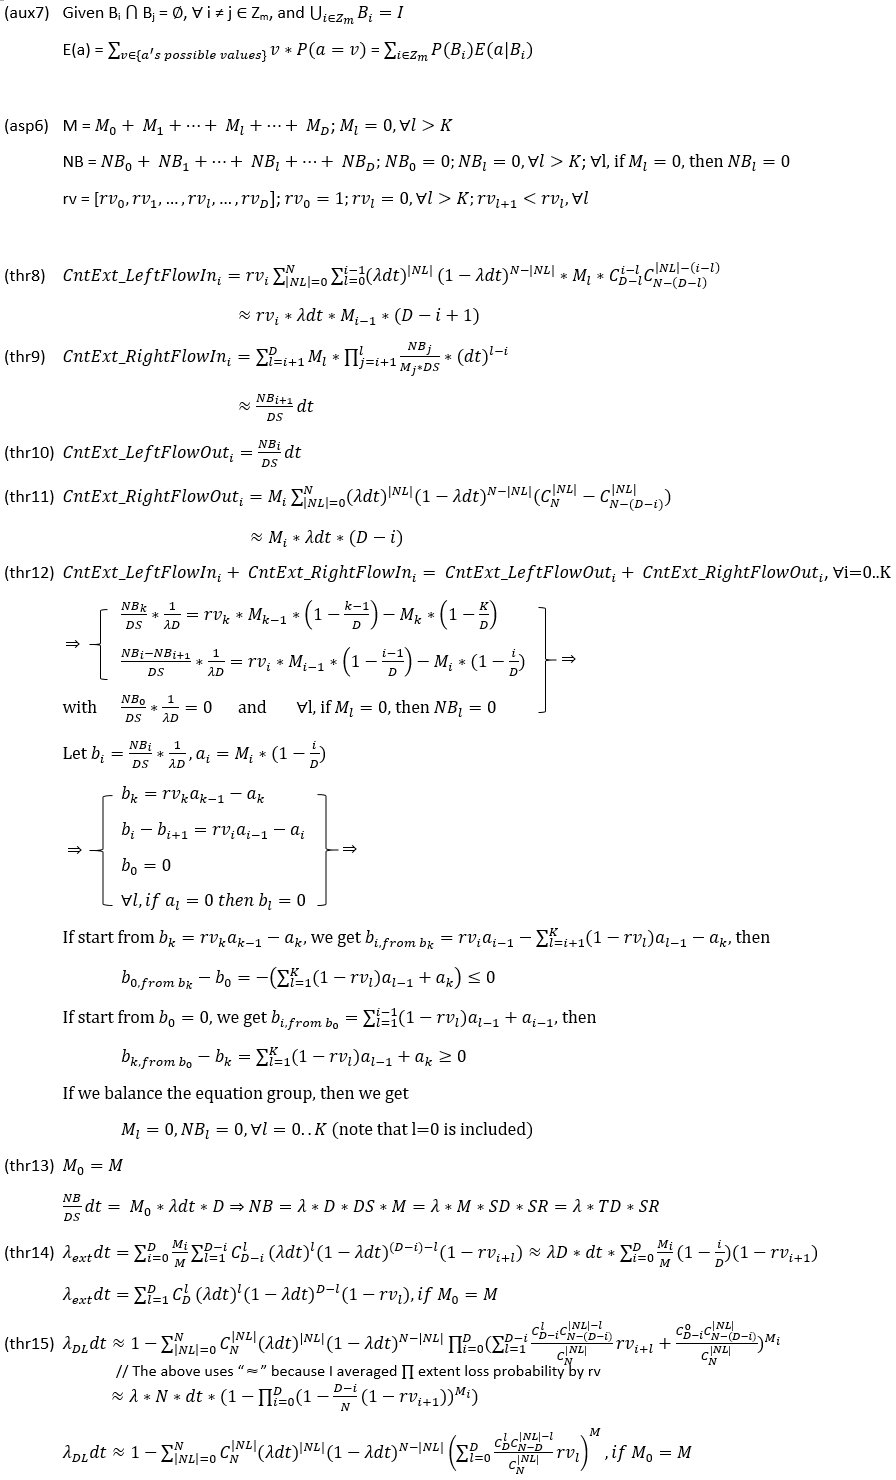
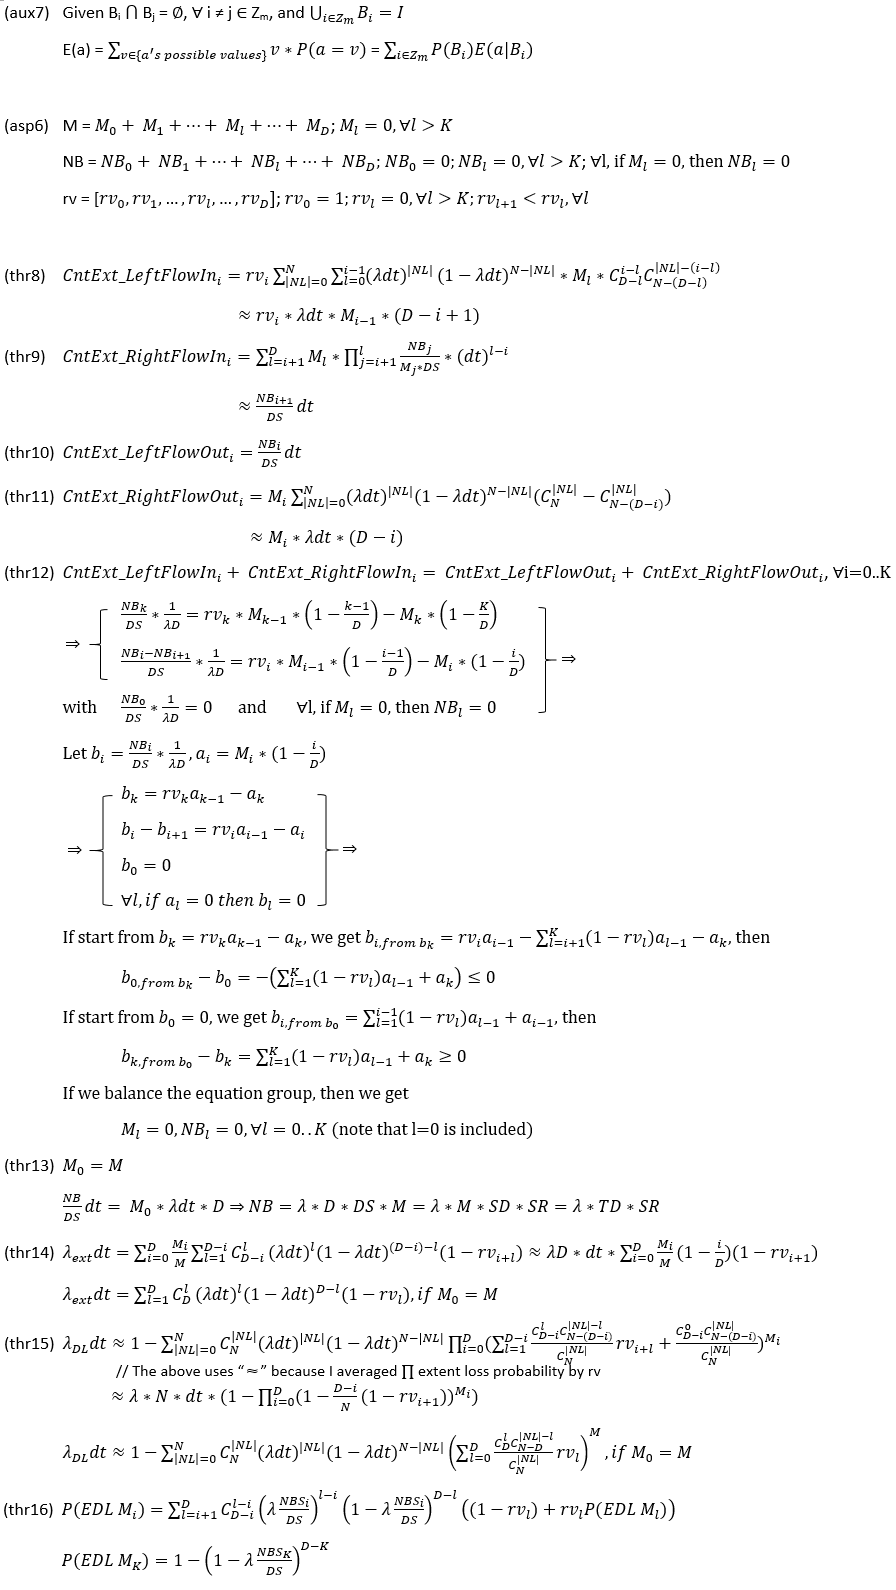
update article

diff --git a/_posts/2016-12-02-Storage-Reliability-Calculations.md b/_posts/2016-12-02-Storage-Reliability-Calculations.md
@@ -236,9 +236,23 @@ Conclusions
 
         Extent loss rate λ(ext): (thr14)
         Cluster data loss rate λ(DL): (thr15)
-
             λ(ext) and λ(DL) are the solo result of Mi states. They has not relation with NBi. While NBi is what maintains Mi states.
             When M0=M, λ(ext) and λ(DL) are the best of what they can get from NBi.
+
+        Practical markov for single extent loss probability: (thr16)
+            Notations
+                Let NBSi := the available network recovery bandwidth for this single extent, when it has lost i fragments
+                    The bandwidth is affacted by repair priority, TOR and node NIC bandwidth.
+                P(EDL Mi) := probability of lose this extent when it is at Mi
+                    P(EDL M0) is what we try to calculate
+            Note that this formula not math strict, because in a absorbing markov chain the extent loss probability should be eventually 1
+                https://www.dartmouth.edu/~chance/teaching_aids/books_articles/probability_book/Chapter11.pdf
+            But we are here to calculate the "practical" probability
+                This formula assumes we follow the repair lifecycle of the given extent
+                While the above λ(ext) assumes we take any extent from the cluster, which has M1-MK count is infinitely small
+            This formula is useful because
+                It takes network recovery bandwidth into consideration, very practical
+                It follows the entire repair lifecycle of the given extent
 
     Conclusions
 
@@ -252,9 +266,53 @@ Conclusions
         For operation ease, cluster data loss λ(DL) should be low. It is the direct result of λ and code schema.
             λ(ext) and λ(DL) have no direct relation ship with NB. But NB is necessary to pull extents from M1..MK != 0 states.
             If M1..MK != 0, the λ(ext)dt and λ(DL)dt raise by factor of 1/(λdt)
-
 ```
 
 Below are the formulas stated above
 
 ![Formula index](/images/reliability-limits-formula-index.png "Formula index")
+
+__Reliability framework__
+
+To summarize the technique framework to ensure storage reliability
+
+  * Data input: ensure the reliability when data is coming in
+      * End-to-end verification: ensure what user writes is what is stored
+      * Commit safe: when user is ack-ed, ensure the data is guaranteed persistent
+
+  * Data storing: ensure the reliability at where data is stored
+      * Good data should not be overwriten. In case a bug or at least we can recover data from history
+      * Data recovery
+          * Detect data loss as fast as you can
+              * On-the-fly, when user read data, from node loss, from disk failure, etc. Summarize whatever info you can leverage to detect data loss fast.
+              * Prediction, from unstable/unhealthy/untrustable nodes that are going to loss, from disks that frequently have problem. Prepare to move data out of danger zones.
+          * Repair action should be prioritized
+              * Repair the data at high risk first.
+              * Repair actions should be well-scheduled and well-managed.
+              * The overall reliability is determined by how fast you can repair.
+          * Watch out that your data is more vulnerable when server upgrading, because
+              * Some portion of data is unavailable
+              * The user traffic becomes larger because of reconstruction read
+              * The repair traffic also becomes larger
+          * Code schema (e.g. 3-replica, erasure-coding, LRC) is very important for data reliability.
+              * It is also important for balancing reliability with overhead of storage, bandwidth, latency, reconstruct, and metadata.
+              * Policied auto transition between different code schemas may be necessary.
+      * Silent data corruption: This is a real problem. Background check and repair can help; but too time/resource consuming for super large clusters.
+      * Some piece hardware from vendors can have problem. Some firmware can have problem, go wrong, or have bug. They can become slow, unstable, or whatever.
+      * Old clusters are highly risked: old devices are easy to fail, and in burst, which generates a lot of data loss. They may frequently become slow, unstable, jump online and offline.
+
+  * Data serving
+      * Data availability and data durability are different. Good data serving ensures data availability
+      * Nodes can be transiently unavailable. Detect transient and permanent before you head to expensive data repair.
+      * Node failure can usually be repaired quickly by a reboot. Node can jump online and offline. Be careful to schedule repair actions wisely.
+      * Customer impact is different, i.e. even data is lost, if we are in the lucky time window where customer is not reading/writing (this is of high probabilty), there can be no customer impact.
+
+  * Raw disk recovery: when everything is goine, we expect to extract user data from a raw disk
+      * Make sure you have a way to know the raw binary format on disk. Extract data from raw disk can be the final resort.
+      * Make sure the necessary metadata for raw disk recovery can be obtained and well protected.
+
+  * Hardware: hardware failure rate has direct impact on everything about reliability, very straightforward. Be careful to balance reliability and cost wisely.
+
+Other references
+
+  * [DataDomain DIA](http://www.emc.com/collateral/software/white-papers/h7219-data-domain-data-invul-arch-wp.pdf)

diff --git a/_posts/2016-11-21-Tail-Latency-Study.md b/_posts/2016-11-21-Tail-Latency-Study.md
@@ -366,6 +366,27 @@ The papers employing tail latency implies more detailed scheduling (and even a m
                 2. to set the core’s speed as per the slowdown factor, we employ RAPL  
 ```
 
+__Monitoring__
+
+There should be two types of monitoring
+
+  * Single operation
+  * Percentile statistics
+
+The monitoring should be able to
+
+  * Provide a trace id that can be followed from user request entrance to hardware operations
+  * Cover the breakdown of each level
+  * Point cover where it is easy to have problems
+
+There are several aspects to be monitored
+
+  * Errors that directly related to customer failure, e.g. VM stall/restart
+  * Timeout error counts and auto throttles that directly impact customer experience
+  * Operation slowdown
+  * Typical hardware performance such as CPU, network, disks
+  * Provide trace from user entrace, breakdown at each level, and eventually to hardware
+
 __Other References__
 
   * [Latency Numbers Every Programmer Should Know](https://people.eecs.berkeley.edu/~rcs/research/interactive_latency.html): Give you the basic latency numbers of each level of a storage system
